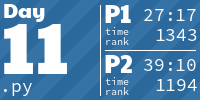
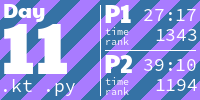
Add day 11

diff --git a/2022/11/11.kt b/2022/11/11.kt
@@ -1,0 +1,51 @@
+
+class Monkey(monkey: String, divideBy: Int = 1) {
+    companion object {
+        var modulo: Long = 1
+        var monkeys: MutableList<Monkey> = mutableListOf()
+    }
+    var counter = 0L
+    val divideBy = divideBy
+    val attributes = monkey.split("\n").drop(1).map { it.split(":")[1].trim() }
+
+    val items = attributes[0].split(",").map { it.trim().toLong() }.toMutableList()
+    val opMultOrAdd = attributes[1].split(" ")[3]
+    val opArg = attributes[1].split(" ")[4]
+    val opFunc: (Long, Long) -> Long = if (opMultOrAdd == "*") Long::times else Long::plus
+    fun op(x: Long) = opFunc(x, if (opArg == "old") x else opArg.toLong())
+    val divisibleBy = attributes[2].split(" ").last().toLong()
+    val ifTrue = attributes[3].split(" ").last().toInt()
+    val ifFalse = attributes[4].split(" ").last().toInt()
+    init {
+        Monkey.modulo *= divisibleBy
+        Monkey.monkeys.add(this)
+    }
+    fun round() {
+        for (item in items) {
+            val newWorry = op(item) % Monkey.modulo / divideBy
+            val index = if (newWorry % divisibleBy == 0L) ifTrue else ifFalse
+            Monkey.monkeys[index].items.add(newWorry)
+            counter++
+        }
+        items.clear()
+    }
+}
+
+fun main() {
+    val monkeys = generateSequence(::readlnOrNull).joinToString("\n").trim().split("\n\n")
+
+    fun multLast2() = Monkey.monkeys.map { it.counter }.sorted().takeLast(2).reduce(Long::times)
+    fun rounds(count: Int) = (1..count).map { Monkey.monkeys.map { it.round() } }
+
+    // Part 1
+    monkeys.map { Monkey(it, divideBy=3) }
+    rounds(20)
+    println(multLast2())
+
+    // Part 2
+    Monkey.modulo = 1
+    Monkey.monkeys.clear()
+    monkeys.map { Monkey(it) }
+    rounds(10000)
+    println(multLast2())
+}

diff --git a/README.md b/README.md
@@ -36,7 +36,7 @@
 <a href="2022/10/10.kt">
   <img src="Media/2022/10.png" width="161px">
 </a>
-<a href="2022/11/11.py">
+<a href="2022/11/11.kt">
   <img src="Media/2022/11.png" width="161px">
 </a>
 <a href="2022/12/12.py">
